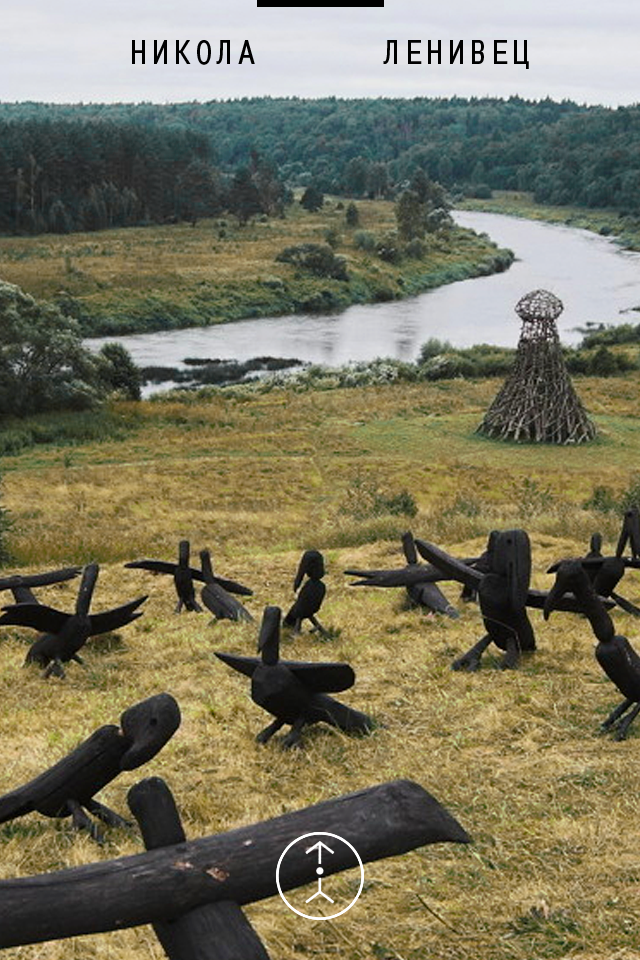
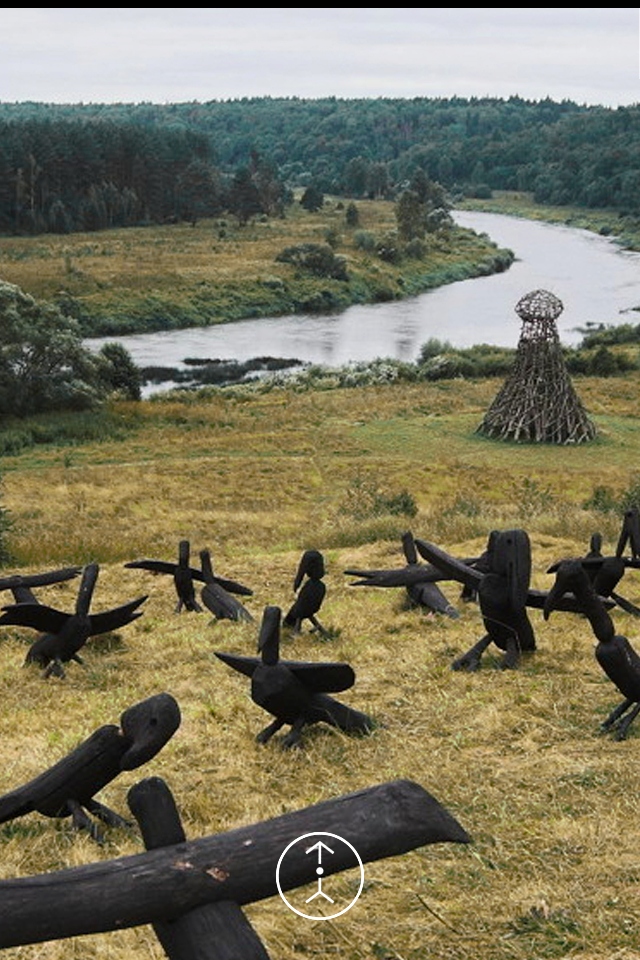
Экран загрузки: анимация логотипа.

Changed region(s): [[0.5938, 0.0, 1.0, 0.0625], [0.0, 0.0, 0.4062, 0.0625]]

diff --git a/NikolaLenivets/UI/NSAttributedString+Kerning.m b/NikolaLenivets/UI/NSAttributedString+Kerning.m
@@ -12,6 +12,11 @@
 
 + (NSAttributedString *)kernedStringForString:(NSString *)string
 {
+    return [NSAttributedString kernedStringForString:string withFontSize:18 andColor:[UIColor colorWithRed:126.0f/255.0f green:126.0f/255.0f blue:126.0f/255.0f alpha:1.0f]];
+}
+
++ (NSAttributedString *)kernedStringForString:(NSString *)string withFontSize:(CGFloat)fontSize andColor:(UIColor *)color
+{
     NSMutableAttributedString *attributedString;
 
     attributedString = [[NSMutableAttributedString alloc] initWithString:string];
@@ -21,11 +26,11 @@
                              range:NSMakeRange(0, [string length])];
 
     [attributedString addAttribute:NSFontAttributeName
-                             value:[UIFont fontWithName:NLMonospacedBoldFont size:18]
+                             value:[UIFont fontWithName:NLMonospacedBoldFont size:fontSize]
                              range:NSMakeRange(0, [string length])];
 
     [attributedString addAttribute:NSForegroundColorAttributeName
-                             value:[UIColor colorWithRed:126.0f/255.0f green:126.0f/255.0f blue:126.0f/255.0f alpha:1.0f]
+                             value:color
                              range:NSMakeRange(0, [string length])];
 
     return [[NSAttributedString alloc] initWithAttributedString:attributedString];

diff --git a/NikolaLenivets/UI/NLSplashViewController.m b/NikolaLenivets/UI/NLSplashViewController.m
@@ -9,6 +9,7 @@
 #import "NLSplashViewController.h"
 #import "NLLocationManager.h"
 #import "NLStorage.h"
+#import "NSAttributedString+Kerning.h"
 
 
 @implementation NLSplashViewController
@@ -27,12 +28,23 @@
 {
     [super viewDidLoad];
     self.view.frame = [[AppDelegate window] frame];
+    [self.view bringSubviewToFront:self.splashTop];
+    [self.view bringSubviewToFront:self.blackStrip];
+    self.nikolaLabel.attributedText = [NSAttributedString kernedStringForString:@"НИКОЛА" withFontSize:18 andColor:[UIColor blackColor]];
+    self.lenivetsLabel.attributedText = [NSAttributedString kernedStringForString:@"ЛЕНИВЕЦ" withFontSize:18 andColor:[UIColor blackColor]];
 }
 
 
 - (void)viewDidAppear:(BOOL)animated
 {
     [self performSelector:@selector(dismissSplash) withObject:nil afterDelay:4];
+    self.blackStripWidth.constant = 64;
+    [UIView animateWithDuration:1.0f delay:0.0f options:UIViewAnimationOptionCurveEaseOut animations:^{
+        [self.view layoutIfNeeded];
+        self.compass.alpha = 1.0f;
+    } completion:^(BOOL finished) {
+        //
+    }];
 }
 
 

diff --git a/NikolaLenivets/UI/NLSplashViewController.h b/NikolaLenivets/UI/NLSplashViewController.h
@@ -6,10 +6,15 @@
 //  Copyright (c) 2014 Semyon Novikov. All rights reserved.
 //
 
-#import <UIKit/UIKit.h>
+@import UIKit;
 
 @interface NLSplashViewController : UIViewController
 
 @property (weak, nonatomic) IBOutlet UIImageView *compass;
+@property (weak, nonatomic) IBOutlet UIImageView *splashTop;
+@property (weak, nonatomic) IBOutlet UIView *blackStrip;
+@property (weak, nonatomic) IBOutlet NSLayoutConstraint *blackStripWidth;
+@property (weak, nonatomic) IBOutlet UILabel *nikolaLabel;
+@property (weak, nonatomic) IBOutlet UILabel *lenivetsLabel;
 
 @end

diff --git a/NikolaLenivets/UI/NSAttributedString+Kerning.h b/NikolaLenivets/UI/NSAttributedString+Kerning.h
@@ -23,4 +23,14 @@
  */
 + (NSAttributedString *)kernedStringForString:(NSString *)string;
 
+/**
+ Make a kerned string for input string with selected font size and color.
+
+ @param string Input string.
+ @param fontSize Font size.
+ @param color Desired color.
+ @return Kerned NSAttributedString.
+ */
++ (NSAttributedString *)kernedStringForString:(NSString *)string withFontSize:(CGFloat)fontSize andColor:(UIColor *)color;
+
 @end
